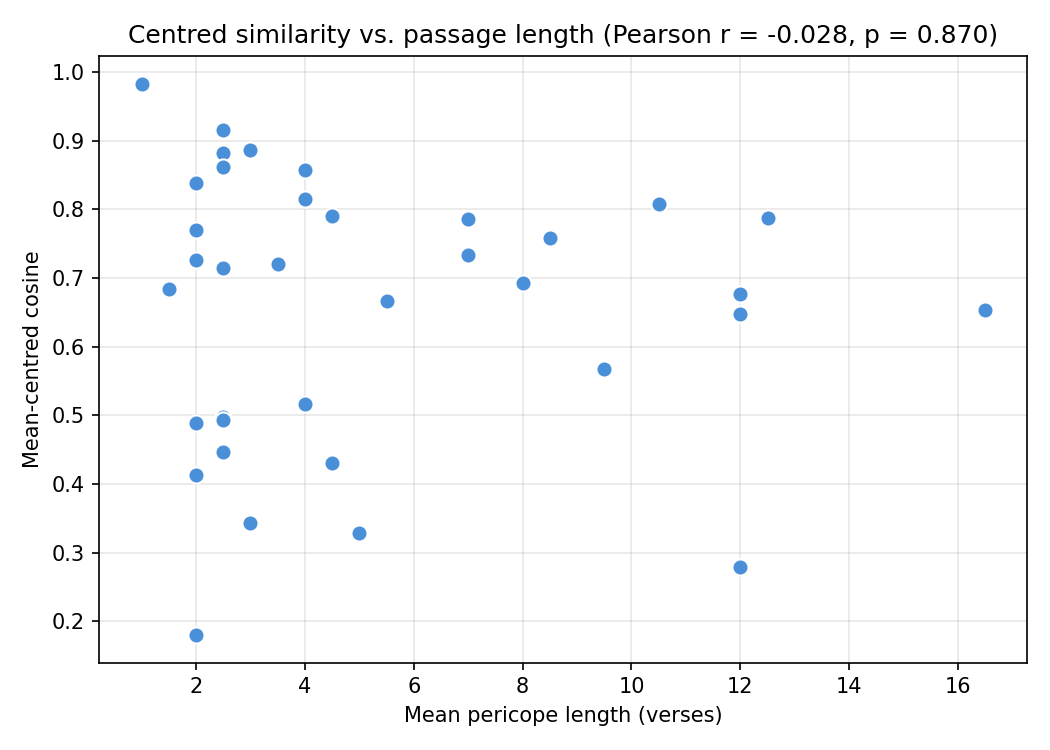
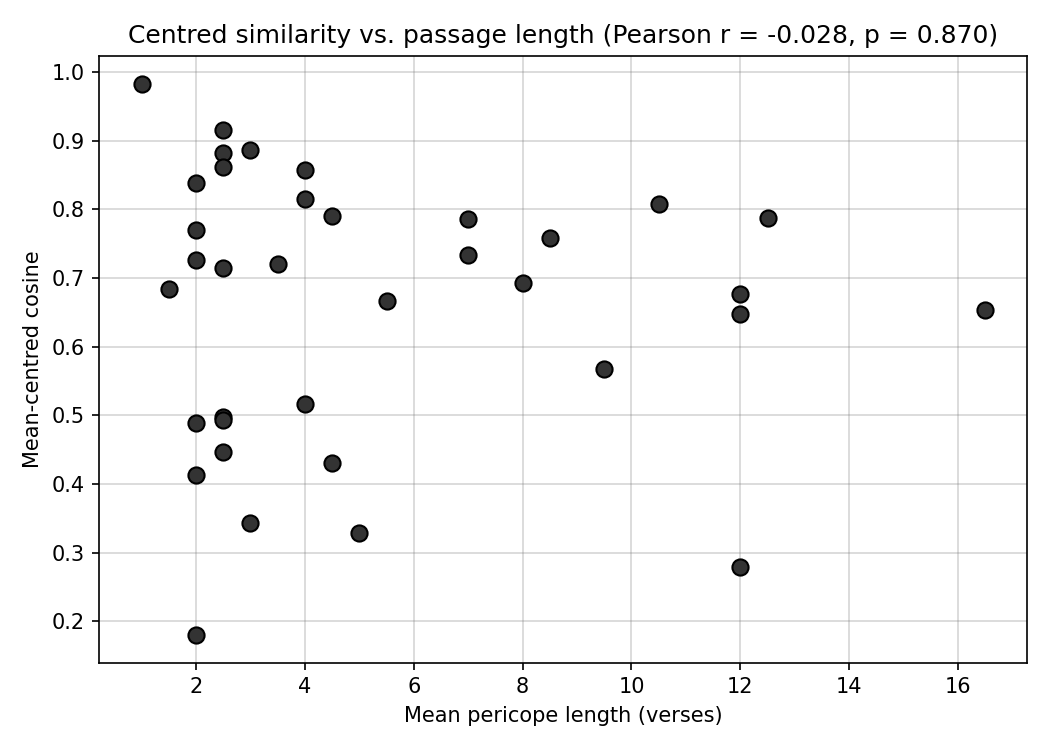
Switch figure palette to greyscale for print reproduction

diff --git a/generate_evaluation_figures.py b/generate_evaluation_figures.py
@@ -57,16 +57,23 @@ def main():
     cen = np.array([float(r["centred_cos"]) for r in rows])
     resid = np.array([float(r["residual_sim"]) for r in rows])
 
+    # Greyscale-only palette (no colour): distinctions carried by shade,
+    # linestyle and hatching instead of hue.
+    GRY_DARK = "#333333"
+    GRY_MID = "#777777"
+    GRY_LIGHT = "#BBBBBB"
+    BLACK = "#000000"
+
     # Figure 1: distribution vs permutation null of the mean
     fig, ax = plt.subplots(figsize=(8, 5))
-    ax.hist(cen, bins=14, density=True, color="#4A90D9", edgecolor="white",
-            alpha=0.85, label="Observed centred cosine (matched pairs)")
+    ax.hist(cen, bins=14, density=True, color=GRY_LIGHT, edgecolor=BLACK,
+            alpha=0.9, label="Observed centred cosine (matched pairs)")
     xs = np.linspace(args.null_mean - 5 * args.null_std, cen.max() + 0.05, 400)
     ax.plot(xs, stats.norm.pdf(xs, args.null_mean, args.null_std),
-            color="#E74C3C", lw=2,
+            color=BLACK, lw=2, linestyle="-",
             label=f"Permutation null of the mean "
                   f"(μ = {args.null_mean:.4f}, σ = {args.null_std:.4f})")
-    ax.axvline(cen.mean(), color="#2ECC71", lw=2, linestyle="--",
+    ax.axvline(cen.mean(), color=GRY_DARK, lw=2, linestyle="--",
                label=f"Observed mean = {cen.mean():.4f}")
     ax.set_xlabel("Mean-centred cosine similarity")
     ax.set_ylabel("Density")
@@ -78,8 +85,8 @@ def main():
 
     # Figure 2: residual symmetry of the top five (by centred cosine)
     fig, ax = plt.subplots(figsize=(8, 5))
-    ax.barh(range(5), resid[:5], color="#4A90D9", edgecolor="white", alpha=0.85)
-    ax.axvline(SIG_B_MEAN, color="#E74C3C", lw=2, linestyle="--",
+    ax.barh(range(5), resid[:5], color=GRY_LIGHT, edgecolor=BLACK, alpha=0.9)
+    ax.axvline(SIG_B_MEAN, color=BLACK, lw=2, linestyle="--",
                label=f"Triple-tradition residual baseline ({SIG_B_MEAN:.3f})")
     ax.set_yticks(range(5))
     ax.set_yticklabels(labels[:5], fontsize=8)
@@ -91,14 +98,19 @@ def main():
     fig.savefig(fig_dir / "fig2_residual_symmetry.png", dpi=150)
     plt.close(fig)
 
-    # Figure 3: full ranking
+    # Figure 3: full ranking (above-mean bars solid dark grey with a hatch,
+    # below-mean bars plain light grey — distinguishable without colour)
     fig, ax = plt.subplots(figsize=(8, 9))
-    colors = ["#E74C3C" if v >= cen.mean() else "#95A5A6" for v in cen]
-    ax.barh(range(len(cen)), cen, color=colors, edgecolor="white", alpha=0.85)
+    colors = [GRY_DARK if v >= cen.mean() else GRY_LIGHT for v in cen]
+    hatches = ["///" if v >= cen.mean() else None for v in cen]
+    bars = ax.barh(range(len(cen)), cen, color=colors, edgecolor=BLACK, alpha=0.95)
+    for bar, h in zip(bars, hatches):
+        if h:
+            bar.set_hatch(h)
     ax.set_yticks(range(len(cen)))
     ax.set_yticklabels(labels, fontsize=7)
     ax.invert_yaxis()
-    ax.axvline(cen.mean(), color="#2ECC71", lw=1.5, linestyle="--",
+    ax.axvline(cen.mean(), color=BLACK, lw=1.5, linestyle="--",
                label=f"Mean = {cen.mean():.4f}")
     ax.set_xlabel("Mean-centred cosine similarity")
     ax.set_title("All 36 double-tradition pericopes, ranked by centred cosine")
@@ -115,12 +127,12 @@ def main():
     lv = np.array([lengths_map[l] for l in labels])
     r_p, p_p = stats.pearsonr(lv, cen)
     fig, ax = plt.subplots(figsize=(7, 5))
-    ax.scatter(lv, cen, color="#4A90D9", edgecolor="white", s=60, zorder=3)
+    ax.scatter(lv, cen, facecolor=GRY_DARK, edgecolor=BLACK, s=60, zorder=3)
     ax.set_xlabel("Mean pericope length (verses)")
     ax.set_ylabel("Mean-centred cosine")
     ax.set_title(f"Centred similarity vs. passage length "
                  f"(Pearson r = {r_p:.3f}, p = {p_p:.3f})")
-    ax.grid(alpha=0.3)
+    ax.grid(alpha=0.3, color=GRY_MID)
     fig.tight_layout()
     fig.savefig(fig_dir / "fig4_centred_vs_length.png", dpi=150)
     plt.close(fig)
@@ -132,15 +144,20 @@ def main():
         groups.setdefault(FORM.get(lab, "proverbial"), []).append(v)
     present = [f for f in form_order if f in groups]
     fig, ax = plt.subplots(figsize=(8, 5))
-    ax.boxplot([groups[f] for f in present])
+    bp = ax.boxplot([groups[f] for f in present],
+                     boxprops=dict(color=BLACK),
+                     whiskerprops=dict(color=BLACK),
+                     capprops=dict(color=BLACK),
+                     medianprops=dict(color=BLACK, lw=1.5))
     ax.set_xticks(range(1, len(present) + 1))
     ax.set_xticklabels(present)
     for i, f in enumerate(present, 1):
         xs = np.random.default_rng(0).normal(i, 0.05, size=len(groups[f]))
-        ax.scatter(xs, groups[f], alpha=0.7, color="#4A90D9", zorder=3)
+        ax.scatter(xs, groups[f], alpha=0.8, facecolor=GRY_DARK,
+                   edgecolor=BLACK, zorder=3)
     ax.set_ylabel("Mean-centred cosine")
     ax.set_title("Centred similarity by form-critical category")
-    ax.grid(alpha=0.3, axis="y")
+    ax.grid(alpha=0.3, axis="y", color=GRY_MID)
     fig.tight_layout()
     fig.savefig(fig_dir / "fig5_centred_by_form.png", dpi=150)
     plt.close(fig)
@@ -149,15 +166,20 @@ def main():
     strata = [STRATUM.get(l, "Q2") for l in labels]
     data = [cen[np.array([s == k for s in strata])] for k in ["Q1", "Q2", "Q3", "U"]]
     fig, ax = plt.subplots(figsize=(7, 5))
-    ax.boxplot(data)
+    ax.boxplot(data,
+               boxprops=dict(color=BLACK),
+               whiskerprops=dict(color=BLACK),
+               capprops=dict(color=BLACK),
+               medianprops=dict(color=BLACK, lw=1.5))
     ax.set_xticks(range(1, 5))
     ax.set_xticklabels(["Q1", "Q2", "Q3", "U"])
     for i, vals in enumerate(data, 1):
         xs = np.random.default_rng(1).normal(i, 0.05, size=len(vals))
-        ax.scatter(xs, vals, alpha=0.7, color="#4A90D9", zorder=3)
+        ax.scatter(xs, vals, alpha=0.8, facecolor=GRY_DARK,
+                   edgecolor=BLACK, zorder=3)
     ax.set_ylabel("Mean-centred cosine")
     ax.set_title("Centred similarity by Kloppenborg stratum")
-    ax.grid(alpha=0.3, axis="y")
+    ax.grid(alpha=0.3, axis="y", color=GRY_MID)
     fig.tight_layout()
     fig.savefig(fig_dir / "fig6_centred_by_stratum.png", dpi=150)
     plt.close(fig)
